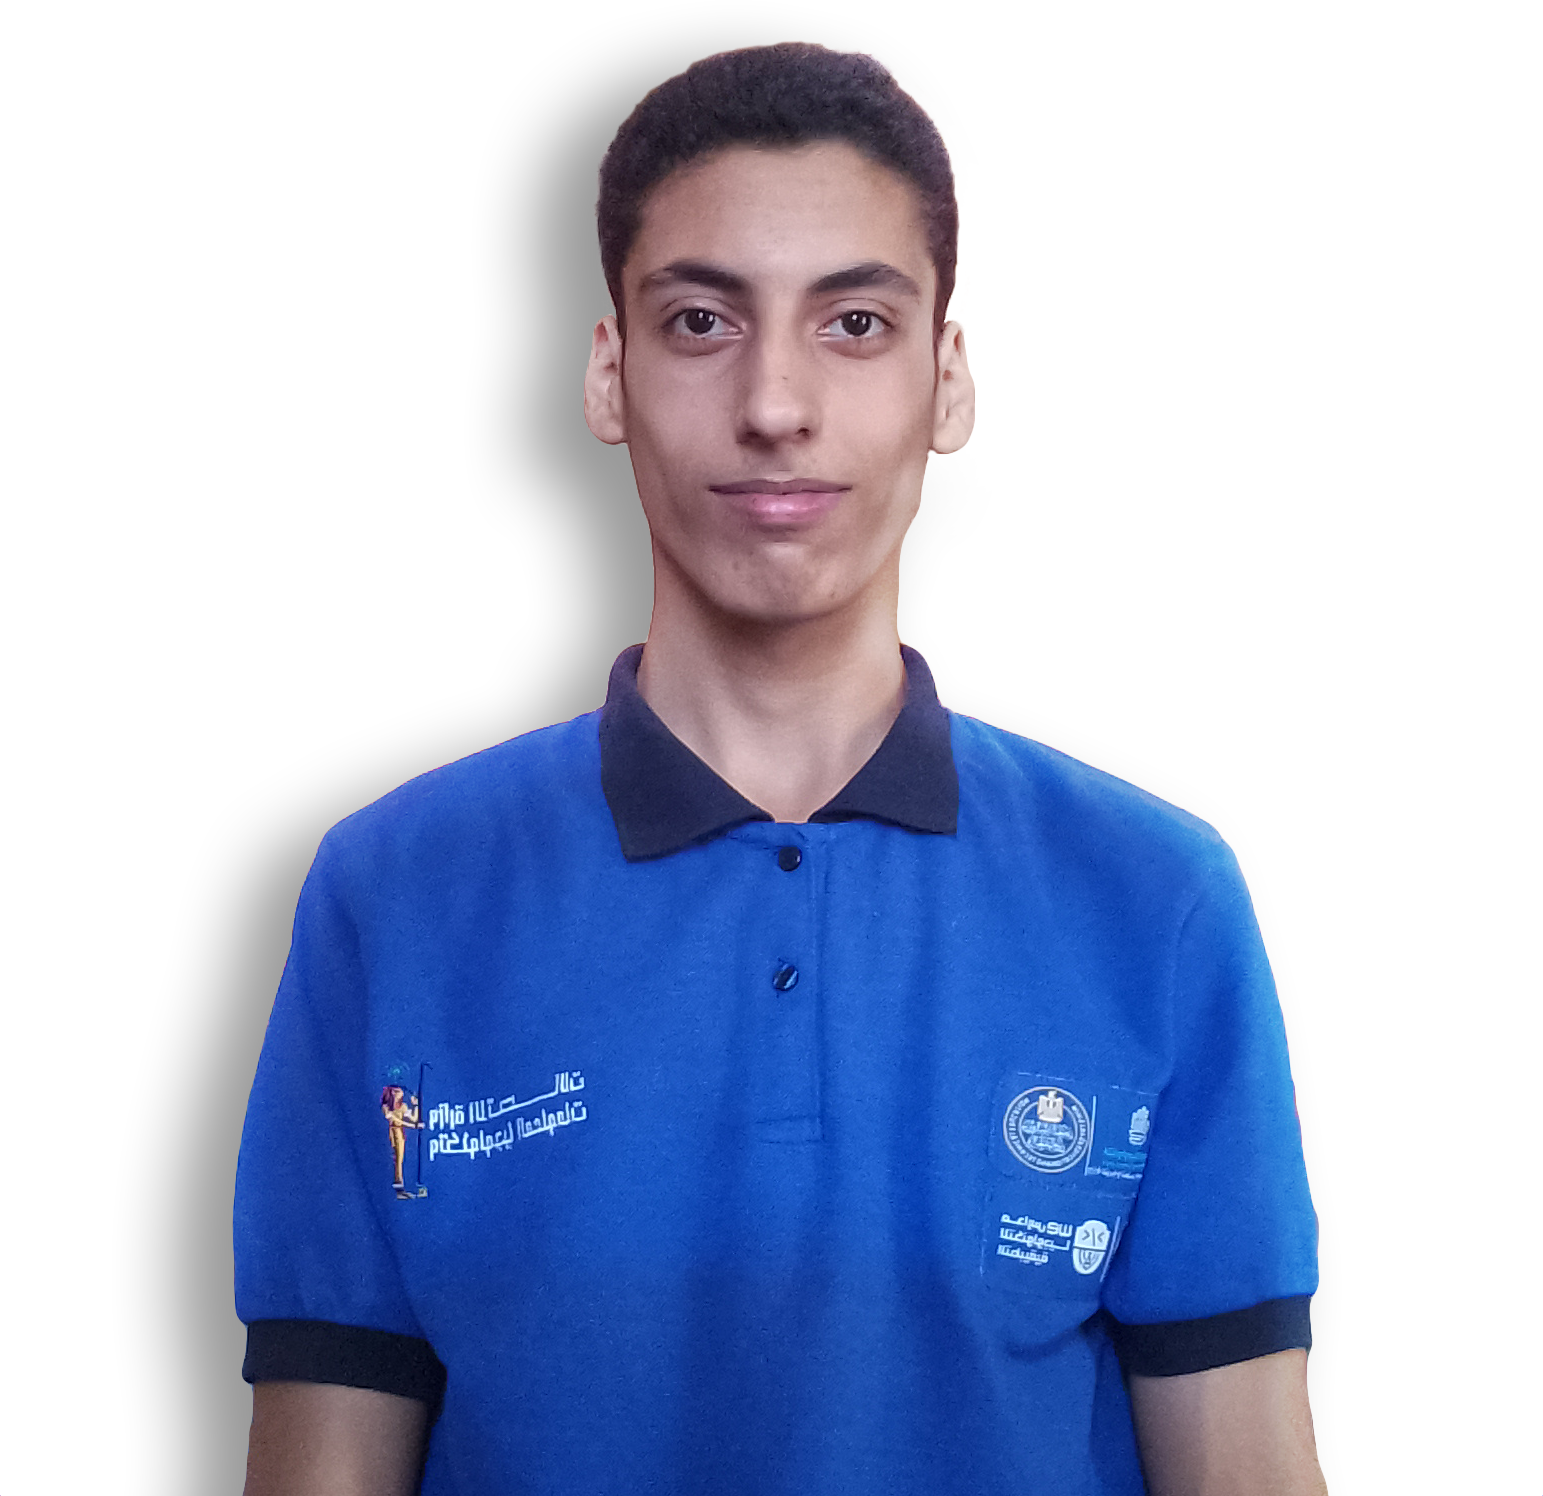
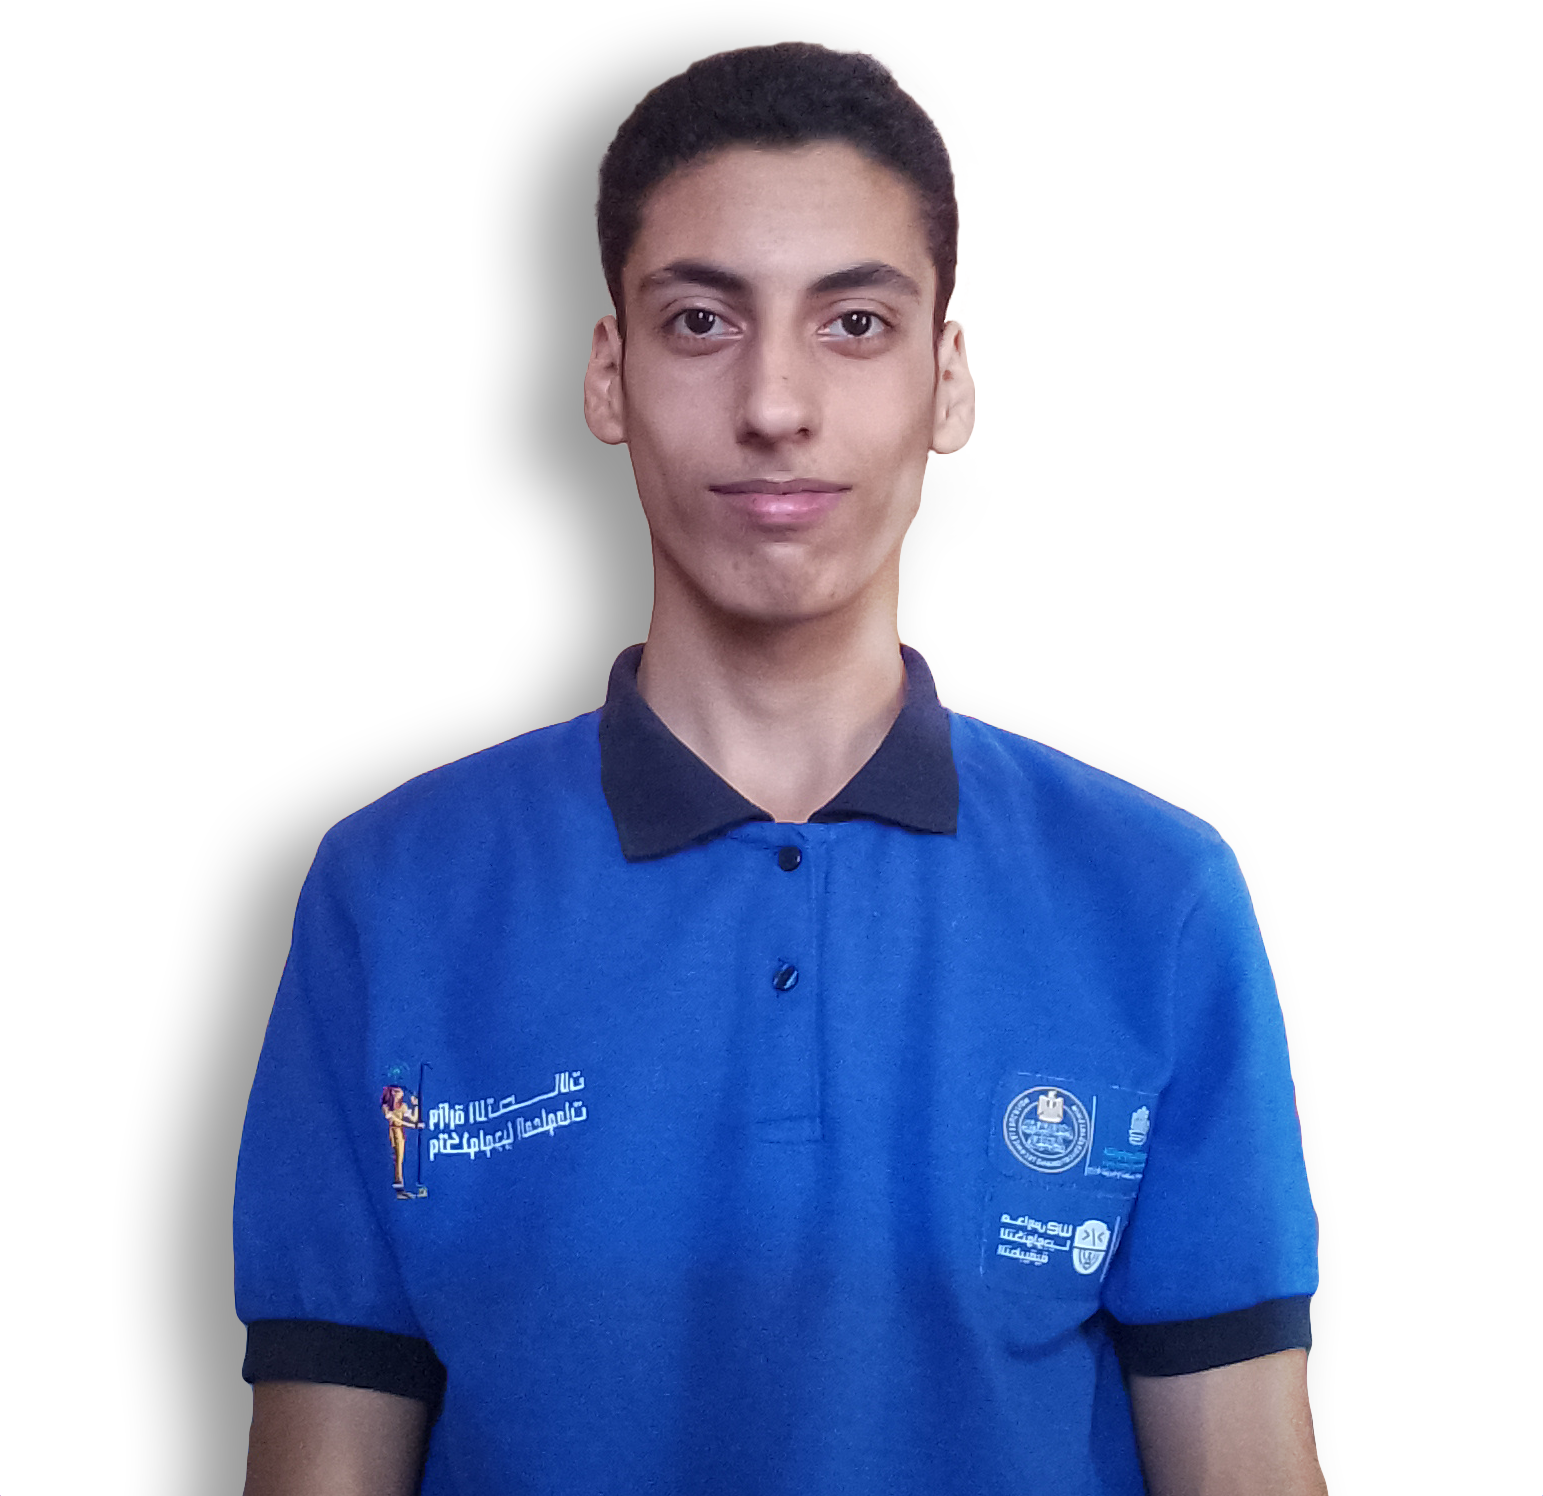
Added social media links and changed about picture

diff --git a/dist/css/about.css b/dist/css/about.css
@@ -1,1 +1,1 @@
-body{background:linear-gradient(to left, blue, purple)}body .invisible{display:none;justify-content:space-between}body .invisible img{width:1.5rem;height:1.5rem}body .nav{height:auto;font-size:2rem}body .nav .nav-item{color:#fff;text-decoration:none;padding-right:auto}body .nav .nav-item .B-svg{width:3rem}body main{margin:5px}body main .name-pic{display:flex;flex-direction:column;align-items:center;text-align:center}body main .name-pic .about-img{width:90%;z-index:-2}body main .about{display:flex;flex-direction:column;align-items:center}body main .about p{transform:translateY(-3.25rem)}body main .about h1{transform:translateY(-2.5rem)}body main .description{position:relative;background-color:#ead2ac;color:#000;padding:.75rem;padding-top:1rem;border-radius:10px;font-size:1.25rem;text-align:justify}body main .title{position:relative;width:fit-content;background-color:#538b95;padding:.25rem;border-radius:10px;font-size:2rem;margin-inline:auto;z-index:1}body main .contact .description{display:flex;gap:.5rem;justify-content:space-around;transform:translateY(-0.75rem);flex-direction:column}body main .contact .description .links{display:flex;gap:.5rem;justify-content:space-around}body main .contact .description span:hover{cursor:pointer}body main .contact .description img{width:2rem}body main .contact fieldset{border:none;padding:10px}body main .contact fieldset input,body main .contact fieldset textarea{width:100%;border:solid 1px #000;border-radius:5px;height:1.5rem;padding:4px;outline:none;font-size:calc(1.5rem - 10px);background-color:#f0dfc4}body main .contact fieldset textarea{height:3rem;resize:none}body main .contact fieldset button{background-color:#086fdc;outline:none;border:1px solid #000;border-radius:15px;padding:10px;margin-top:5px;font-size:1rem}
+body{background:linear-gradient(to left, blue, purple)}body .x-button:hover{cursor:pointer}body .invisible{display:none;justify-content:space-between}body .invisible img{width:1.5rem;height:1.5rem}body .nav{height:auto;font-size:2rem}body .nav .nav-item{color:#fff;text-decoration:none;padding-right:auto}body .nav .nav-item .B-svg{width:3rem}body main{margin:5px}body main .name-pic{display:flex;flex-direction:column;align-items:center;text-align:center}body main .name-pic .about-img{width:90%;z-index:-2}body main .about{display:flex;flex-direction:column;align-items:center}body main .about p{transform:translateY(-3.25rem)}body main .about h1{transform:translateY(-2.5rem)}body main .description{position:relative;background-color:#ead2ac;color:#000;padding:.75rem;padding-top:1rem;border-radius:10px;font-size:1.25rem;text-align:justify}body main .title{position:relative;width:fit-content;background-color:#538b95;padding:.25rem;border-radius:10px;font-size:2rem;margin-inline:auto;z-index:1}body main .contact .description{display:flex;gap:.5rem;justify-content:space-around;transform:translateY(-0.75rem);flex-direction:column;padding:20px}body main .contact .description .links{display:flex;gap:.5rem;justify-content:space-around}body main .contact .description span:hover{cursor:pointer}body main .contact .description img{width:2rem}body main .contact fieldset{border:none}body main .contact fieldset input,body main .contact fieldset textarea{width:100%;border:solid 1px #000;border-radius:5px;height:1.5rem;padding:4px;outline:none;font-size:calc(1.5rem - 10px);background-color:#f0dfc4}body main .contact fieldset textarea{height:3rem;resize:none}body main .contact fieldset button{background-color:#086fdc;outline:none;border:1px solid #000;border-radius:15px;padding:10px;margin-top:5px;font-size:1rem}

diff --git a/about.html b/about.html
@@ -35,15 +35,15 @@
 
             <div class="description">
                 <div class="links">
-                    <a href="#" target="_blank"><img src="assets/img/social/facebook.svg" alt="facebook"></a>
-                    <a href="#" target="_blank"><img src="assets/img/social/github.svg" alt="github"></a>
-                    <a href="#" target="_blank"><img src="assets/img/social/linkedin.svg" alt="linkedin"></a>
+                    <a href="https://www.facebook.com/mo.badraan" target="_blank"><img src="assets/img/social/facebook.svg" alt="facebook"></a>
+                    <a href="https://github.com/mobadran" target="_blank"><img src="assets/img/social/github.svg" alt="github"></a>
+                    <a href="https://www.linkedin.com/in/mohamed-badran-2200181b9/" target="_blank"><img src="assets/img/social/linkedin.svg" alt="linkedin"></a>
                     <span href="" onclick="displayDiscord()"><img src="assets/img/social/discord.svg" alt="discord"></span>
                     <span href="" onclick="displayWhatsapp()"><img src=" assets/img/social/whatsapp.svg" alt="whatsapp"></span>
                 </div>
 
-                <p id="discord" class="invisible">Discord username: gm.mo <img src="assets/img/cross.svg" alt="X" onclick="removeDiscord()"></p>
-                <p id="whatsapp" class="invisible">Phone Number: +201114480155 <img src="assets/img/cross.svg" alt="X" onclick="removeWhatsapp()"></p>
+                <p id="discord" class="invisible">Discord username: gm.mo <img src="assets/img/cross.svg" alt="X" onclick="removeDiscord()" class="x-button"></p>
+                <p id="whatsapp" class="invisible">Phone Number: +201114480155 <img src="assets/img/cross.svg" alt="X" onclick="removeWhatsapp()" class="x-button"></p>
 
                 <fieldset>
                     <legend>Send Me A Message!</legend>

diff --git a/scss/about.scss b/scss/about.scss
@@ -8,7 +8,13 @@ $black: #000;
 $white: #fff;
 
 body {
+
     background: linear-gradient(to left, blue, purple);
+
+
+    .x-button:hover {
+        cursor: pointer;
+    }
 
     .invisible {
         display: none;
@@ -92,12 +98,14 @@ body {
         }
 
         .contact {
+
             .description {
                 display: flex;
                 gap: 0.5rem;
                 justify-content: space-around;
                 transform: translateY(-0.75rem);
                 flex-direction: column;
+                padding: 20px;
 
                 .links {
                     display: flex;
@@ -118,7 +126,7 @@ body {
             fieldset {
                 // border: solid 1px $black;
                 border: none;
-                padding: 10px;
+                // padding: 10px;
 
                 input,
                 textarea {
